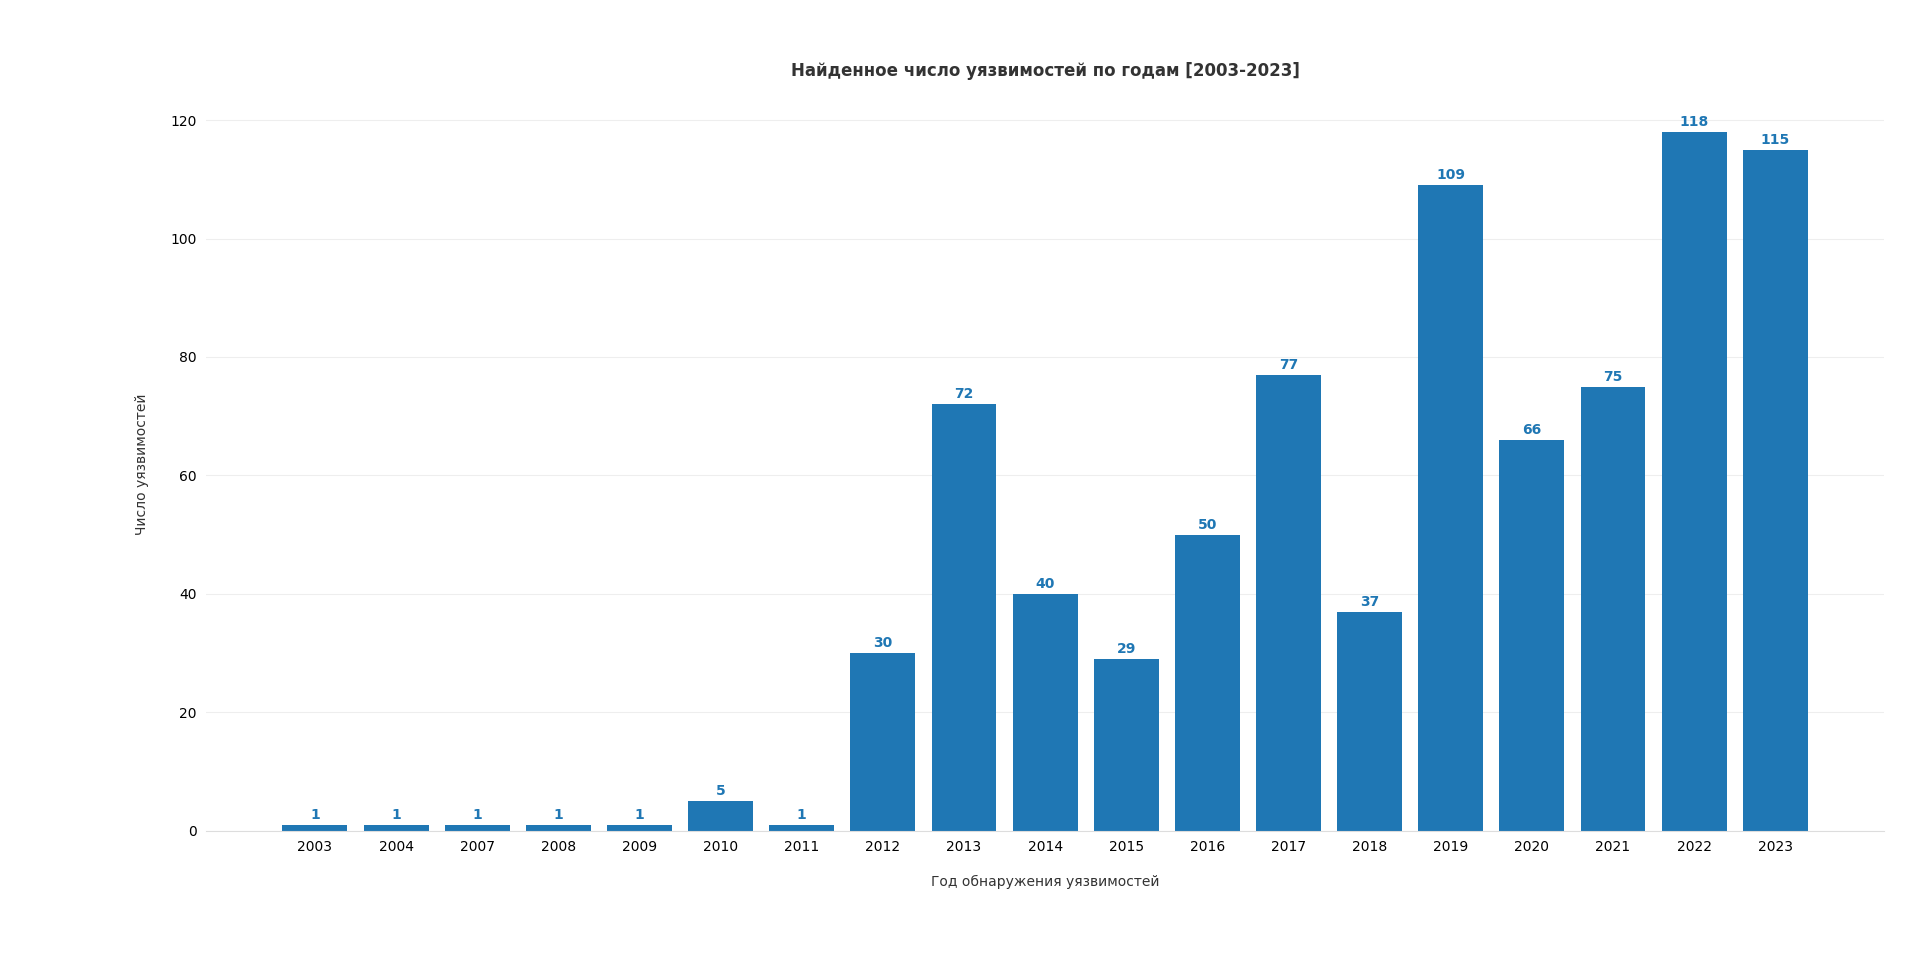
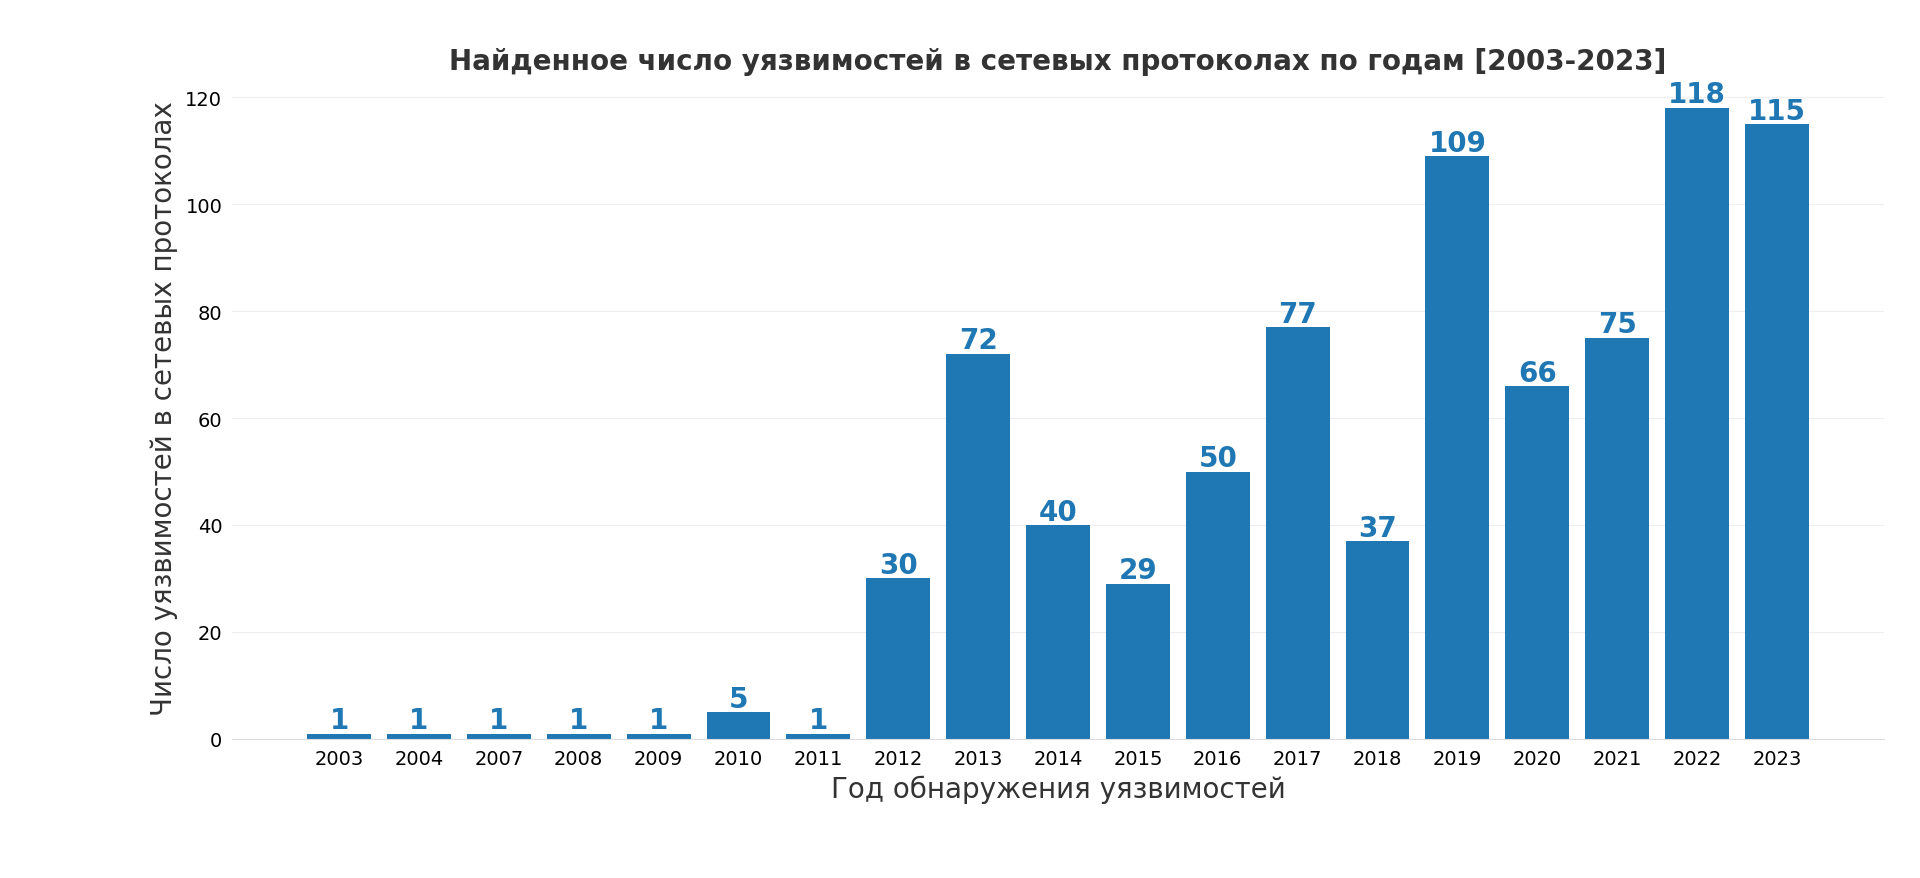
feat(usecases/examples): make bar chart more readable

diff --git a/usecases/examples/netcves_bar_chart.py b/usecases/examples/netcves_bar_chart.py
@@ -40,7 +40,7 @@ def main() -> int:
     ax.spines['bottom'].set_color('#DDDDDD')
 
     # Second, remove the ticks as well.
-    ax.tick_params(bottom=False, left=False)
+    ax.tick_params(bottom=False, left=False, labelsize=14)
 
     # Third, add a horizontal grid (but keep the vertical grid hidden).
     # Color the lines a light gray as well.
@@ -61,15 +61,18 @@ def main() -> int:
             round(bar.get_height(), 1),
             horizontalalignment='center',
             color=bar_color,
-            weight='bold'
+            weight='bold',
+            fontsize=20,
         )
 
     # Add labels and a title. Note the use of `labelpad` and `pad` to add some
     # extra space between the text and the tick labels.
-    ax.set_xlabel('Год обнаружения уязвимостей', labelpad=15, color='#333333')
-    ax.set_ylabel('Число уязвимостей', labelpad=15, color='#333333')
-    ax.set_title('Найденное число уязвимостей по годам [2003-2023]', pad=15,
-                 color='#333333', weight='bold')
+    ax.set_xlabel('Год обнаружения уязвимостей', labelpad=5, color='#333333',
+                  fontsize=20)
+    ax.set_ylabel('Число уязвимостей в сетевых протоколах', labelpad=5,
+                  color='#333333', fontsize=20)
+    ax.set_title('Найденное число уязвимостей в сетевых протоколах по годам [2003-2023]',
+                 pad=5, color='#333333', weight='bold', fontsize=20)
 
     fig.tight_layout()
     plt.show()
